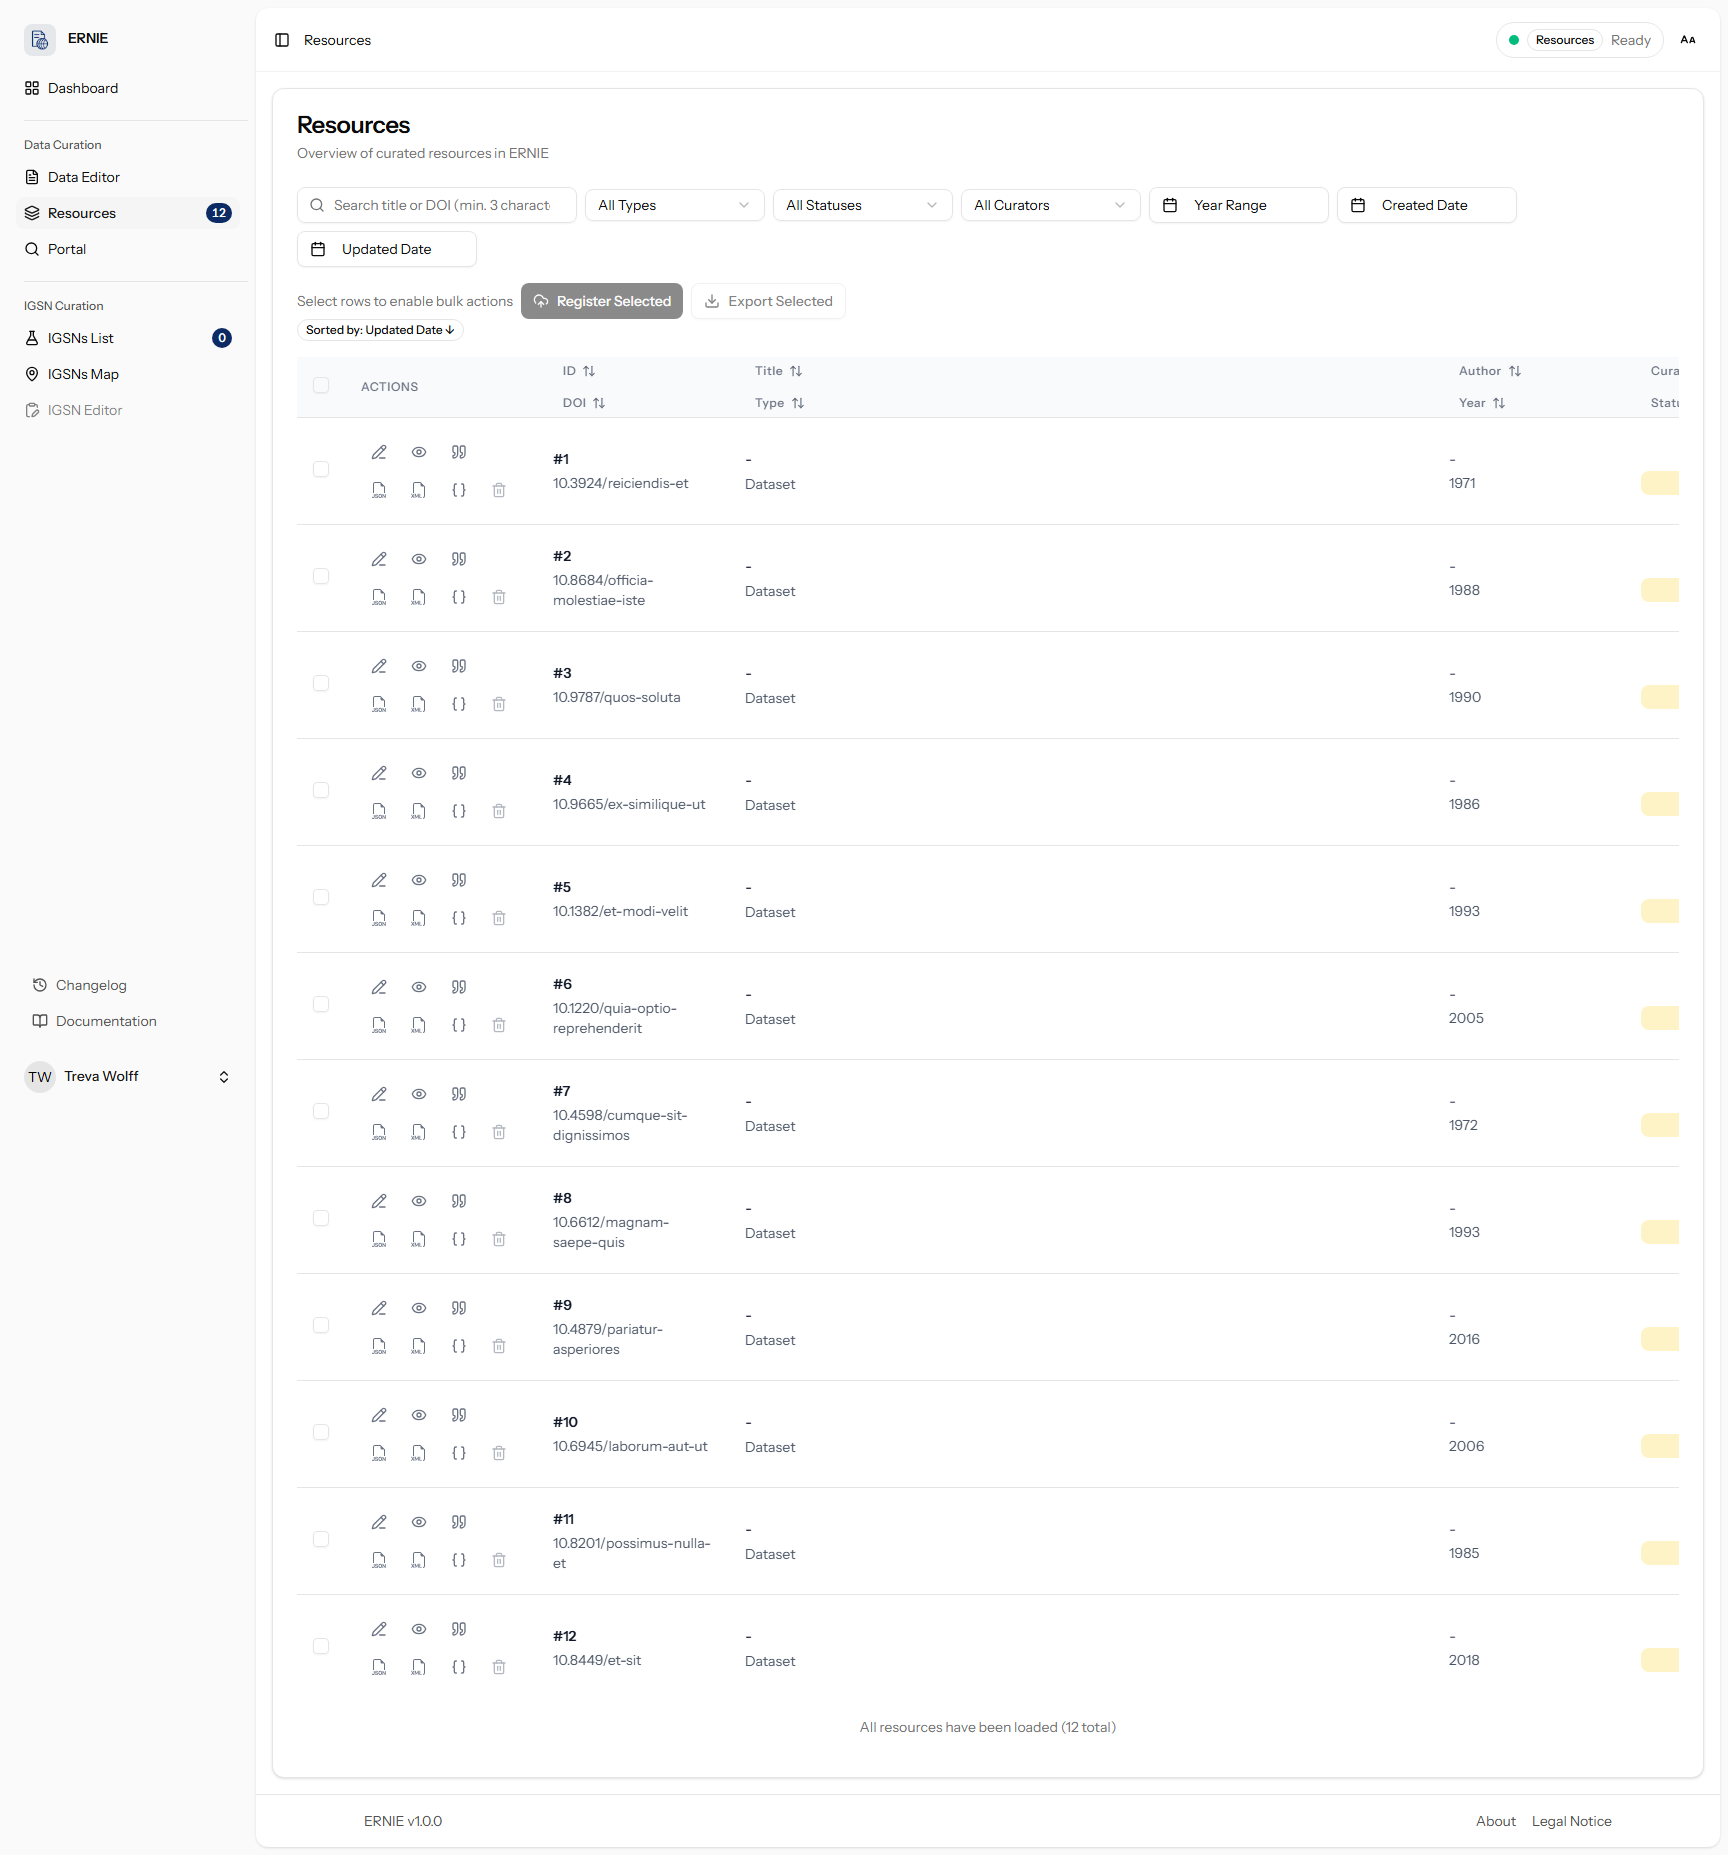
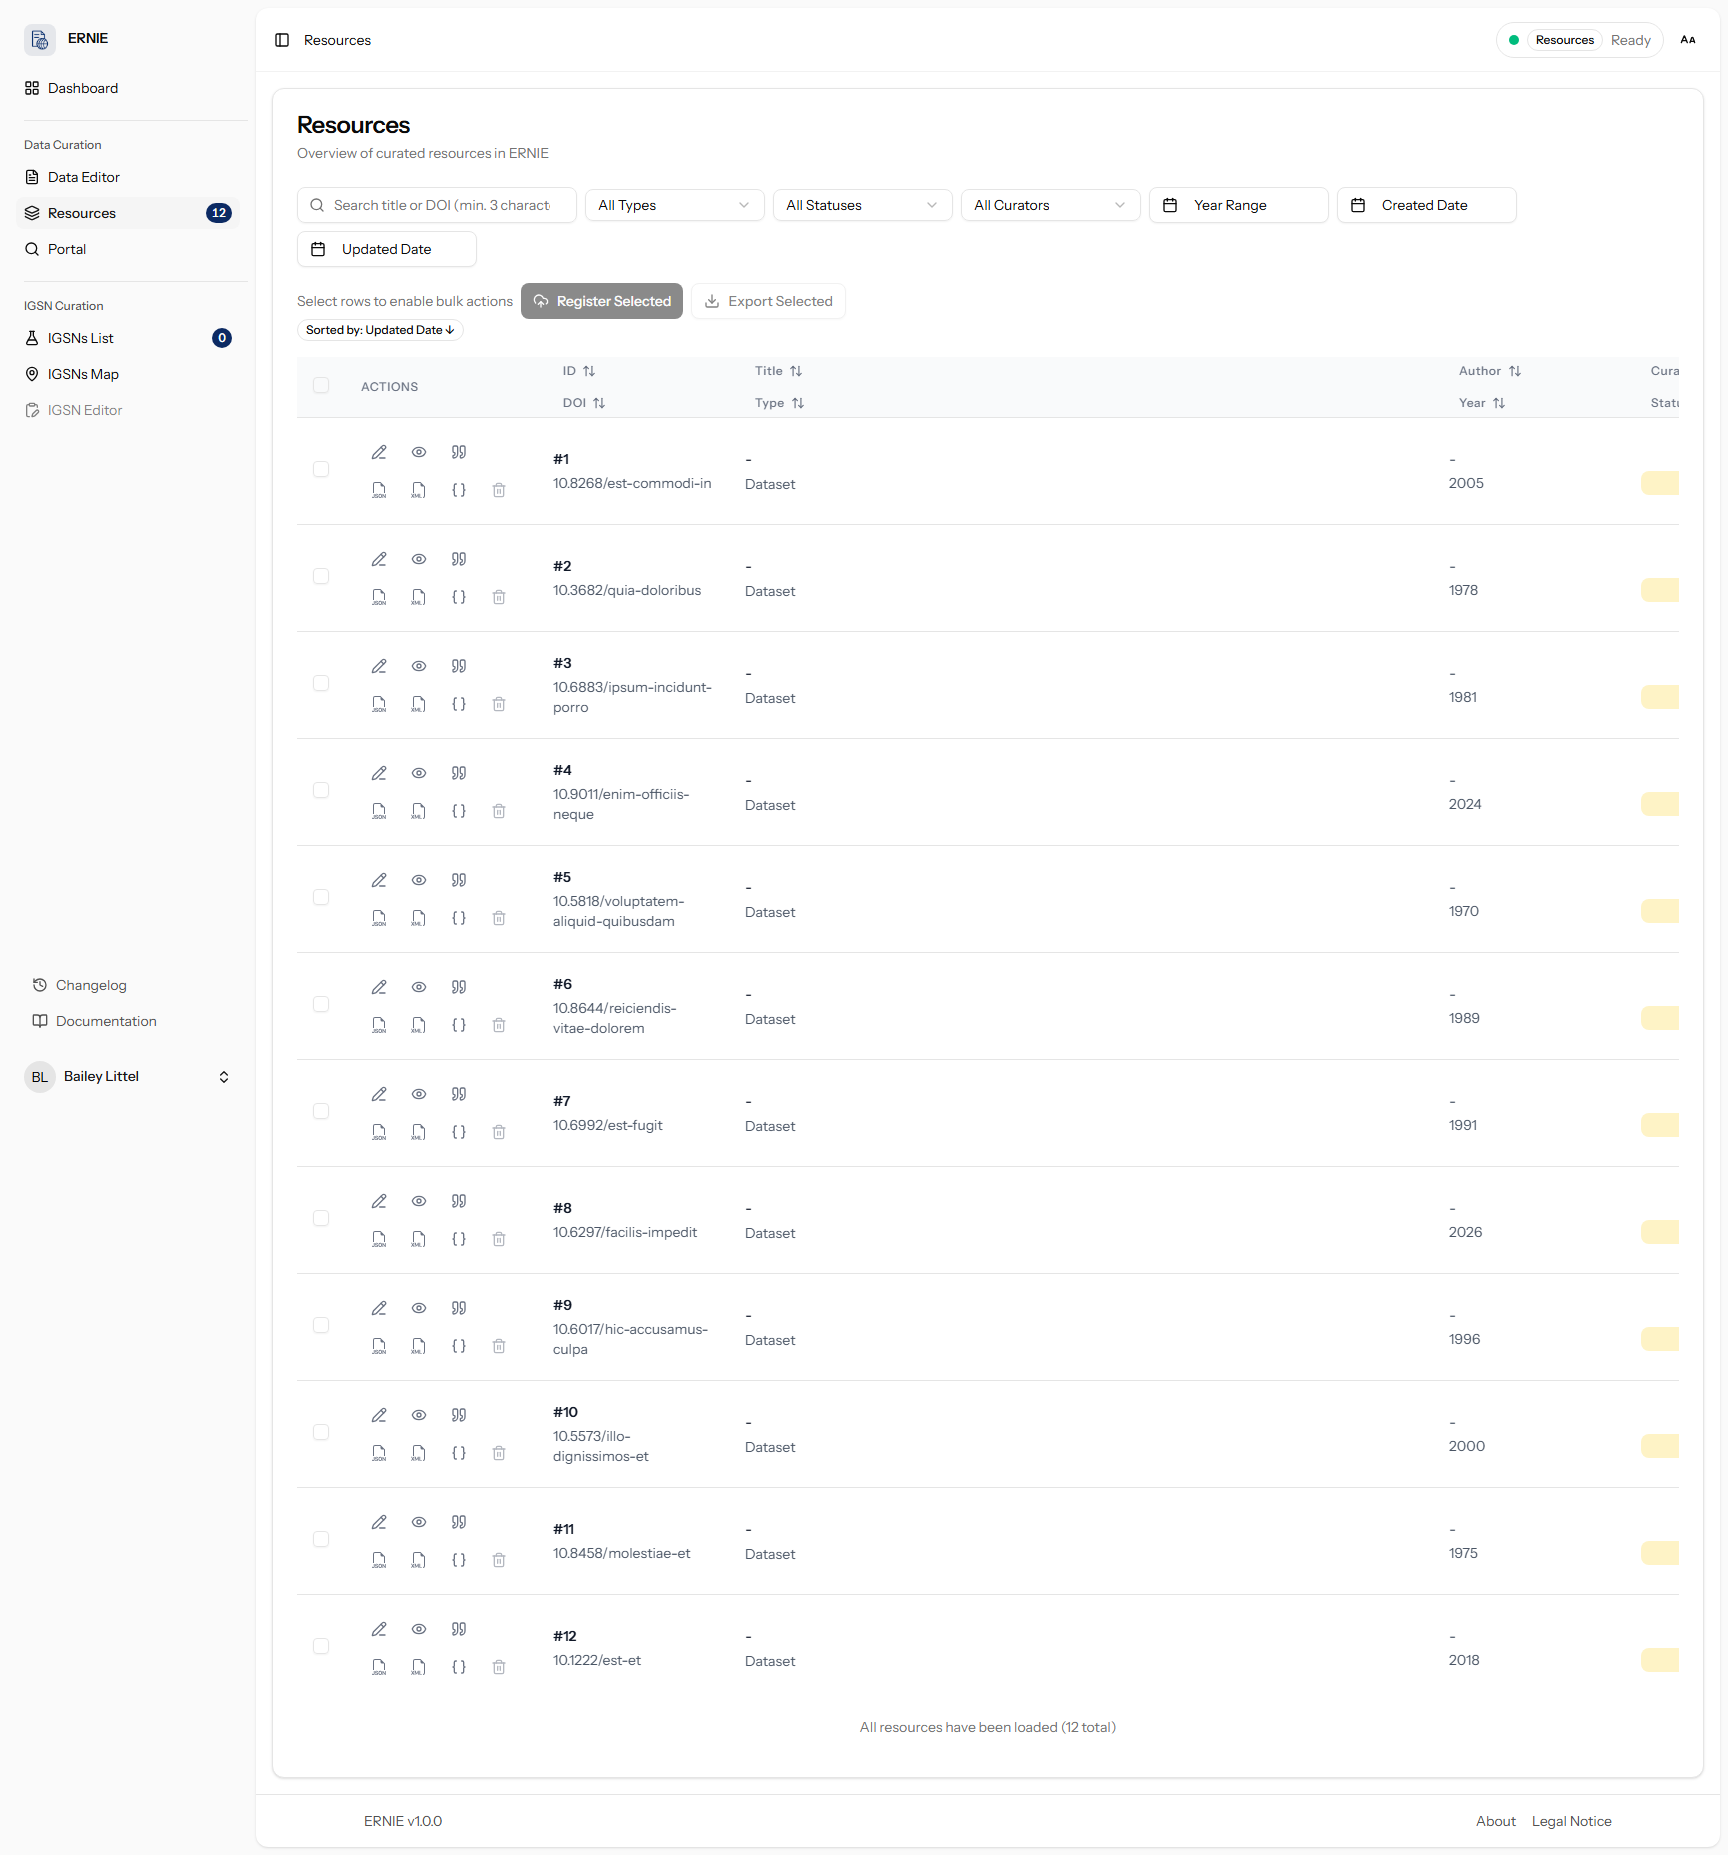
Update sidebar badge test and changelog text
Adjust the sidebar badge screenshot test to parse and round RGB channels, expose both numeric RGB arrays and raw CSS color strings, and assert against numeric RGB values and contrast ratio. Update the changelog entry wording to reference "Resources and IGSNs" (instead of "IGSNs List"). Replace the related screenshot file to match the updated test expectations.

diff --git a/tests/pest/Browser/Issue842SidebarResourceCountScreenshotTest.php b/tests/pest/Browser/Issue842SidebarResourceCountScreenshotTest.php
@@ -41,7 +41,7 @@ describe('Issue 842 sidebar resource count readability', function (): void {
                 const parseRgb = (value) => {
                     const channels = value.match(/\d+(\.\d+)?/g)?.slice(0, 3).map(Number) ?? [];
 
-                    return channels.length === 3 ? channels : null;
+                    return channels.length === 3 ? channels.map(Math.round) : null;
                 };
 
                 const linearize = (channel) => {
@@ -63,8 +63,10 @@ describe('Issue 842 sidebar resource count readability', function (): void {
 
                 if (textRgb === null || backgroundRgb === null) {
                     return {
-                        color: style.color,
-                        backgroundColor: style.backgroundColor,
+                        textRgb,
+                        backgroundRgb,
+                        rawColor: style.color,
+                        rawBackgroundColor: style.backgroundColor,
                         contrastRatio: null,
                     };
                 }
@@ -73,16 +75,18 @@ describe('Issue 842 sidebar resource count readability', function (): void {
                 const darker = Math.min(luminance(textRgb), luminance(backgroundRgb));
 
                 return {
-                    color: style.color,
-                    backgroundColor: style.backgroundColor,
+                    textRgb,
+                    backgroundRgb,
+                    rawColor: style.color,
+                    rawBackgroundColor: style.backgroundColor,
                     contrastRatio: Number(((lighter + 0.05) / (darker + 0.05)).toFixed(2)),
                 };
             }
             JS);
 
         expect($resourceBadgeStyles)->not->toBeNull();
-        expect($resourceBadgeStyles['color'])->toBe('rgb(255, 255, 255)');
-        expect($resourceBadgeStyles['backgroundColor'])->toBe('rgb(12, 42, 99)');
+        expect($resourceBadgeStyles['textRgb'])->toEqual([255, 255, 255]);
+        expect($resourceBadgeStyles['backgroundRgb'])->toEqual([12, 42, 99]);
         expect($resourceBadgeStyles['contrastRatio'])->toBeGreaterThanOrEqual(4.5);
 
         $page->screenshot(fullPage: true, filename: 'issue-842-resources-sidebar-count-light-mode');